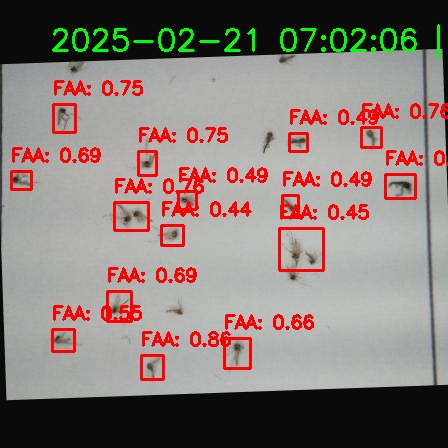
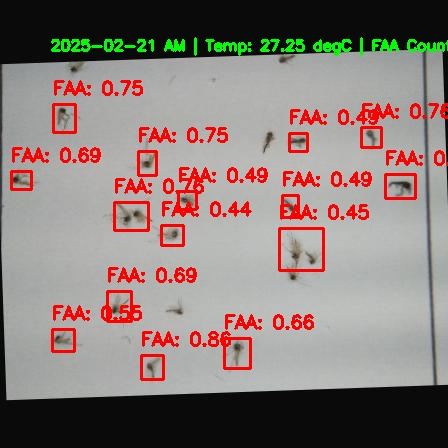
the db is now working without GUI rendering yet just on the terminal

Changed region(s): [[0.0938, 0.0625, 1.0, 0.125]]

diff --git a/main.py b/main.py
@@ -9,6 +9,7 @@ import cv2
 import numpy as np
 from datetime import datetime
 import subprocess
+import sqlite3
 
 app = Flask(__name__)
 
@@ -54,16 +55,16 @@ def run_inference(image_path, filename):
             f"{API_URL}/{MODEL_ID}?api_key={API_KEY}",
             files={"file": open(image_path, "rb")}
         )
-        
+
         if response.status_code != 200:
             print(f"❌ Error: Failed to process image - {response.text}")
             return
-        
+
         result = response.json()
         predictions = result.get("predictions", [])
         faa_count = len(predictions)
         print(f"✅ Total FAA detected: {faa_count}")
-        
+
         image = cv2.imread(image_path)
         if image is None:
             print(f"❌ Error: Unable to read input image {image_path}")
@@ -82,17 +83,21 @@ def run_inference(image_path, filename):
             cv2.putText(image, text, (x1, y1 - 10), cv2.FONT_HERSHEY_SIMPLEX, 0.6, (0, 0, 255), 2)
 
         rtc_time = rtc.datetime
-        formatted_time = f"{rtc_time.tm_year}-{rtc_time.tm_mon:02d}-{rtc_time.tm_mday:02d} {rtc_time.tm_hour:02d}:{rtc_time.tm_min:02d}:{rtc_time.tm_sec:02d}"
+        formatted_time = f"{rtc_time.tm_year}-{rtc_time.tm_mon:02d}-{rtc_time.tm_mday:02d} {'AM' if rtc_time.tm_hour < 12 else 'PM'}"
         temperature = rtc.temperature
-        #timestamp = datetime.now().strftime("%Y-%m-%d %H:%M:%S")
         info_text = f"{formatted_time} | Temp: {temperature} degC | FAA Count: {faa_count}"
-        cv2.putText(image, info_text, (50, 50), cv2.FONT_HERSHEY_SIMPLEX, 0.5, (0, 255, 0), 2)
+        cv2.putText(image, info_text, (50, 50), cv2.FONT_HERSHEY_SIMPLEX, 0.25, (0, 255, 0), 2)
 
+        # Save the processed image
         cv2.imwrite(output_path, image)
         print(f"✅ Inference result saved at {output_path}")
-    
+
+        # Log the data to the database
+        log_data(formatted_time, faa_count, temperature)
+
     except Exception as e:
         print(f"❌ Inference Error: {e}")
+
 
 # Function to delay inference by 2 minutesf
 def run_inference_later(image_path, filename):
@@ -112,6 +117,19 @@ def schedule_capture():
             time.sleep(60)
 
         time.sleep(1)
+
+def log_data(datetime_str, faa_count, temperature):
+    conn = sqlite3.connect('FAA_DB.db')
+    cursor = conn.cursor()
+    sql = '''
+    INSERT INTO MosquitoData (datetime, faa_count, temperature)
+    VALUES (?, ?, ?);
+    '''
+    cursor.execute(sql, (datetime_str, faa_count, temperature))
+    conn.commit()
+    conn.close()
+    print(f"Data logged for {datetime_str}: FAA Count = {faa_count}, Temp = {temperature}")
+
 
 # Start the scheduled capture function in a separate thread
 threading.Thread(target=schedule_capture, daemon=True).start()

diff --git a/setup_database.py b/setup_database.py
@@ -1,0 +1,32 @@
+import sqlite3
+
+# Define the path to your database
+database_path = 'FAA_DB.db'
+
+# Connect to SQLite Database
+conn = sqlite3.connect(database_path)
+
+# Create a cursor object using the cursor() method
+cursor = conn.cursor()
+
+# SQL command to create a table
+sql_command = '''
+CREATE TABLE IF NOT EXISTS MosquitoData (
+    id INTEGER PRIMARY KEY AUTOINCREMENT,
+    datetime TEXT NOT NULL,
+    faa_count INTEGER,
+    temperature REAL
+);
+'''
+
+# Execute the SQL command to create the table
+cursor.execute(sql_command)
+
+# Commit the changes to the database
+conn.commit()
+
+# Close the database connection
+conn.close()
+
+# Print a success message
+print("Database and table created successfully")
